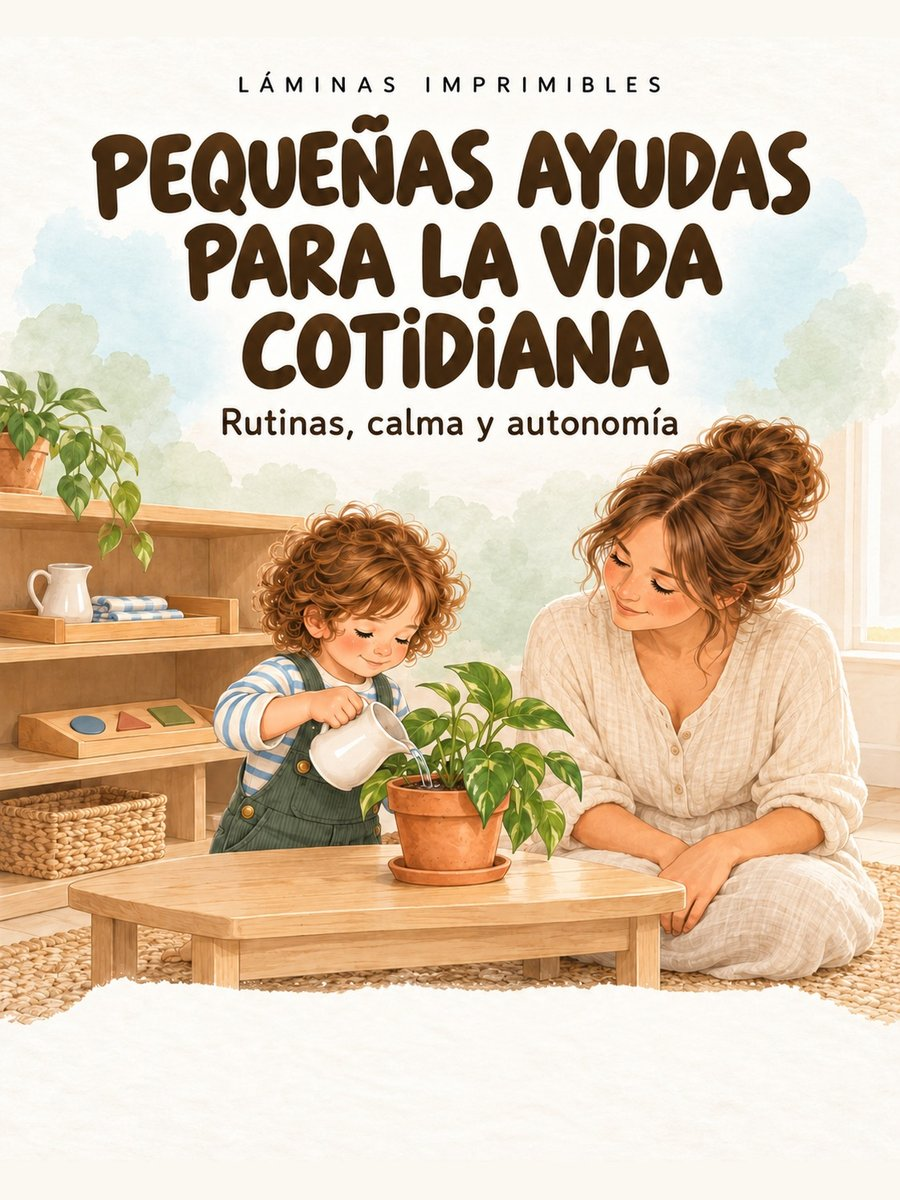
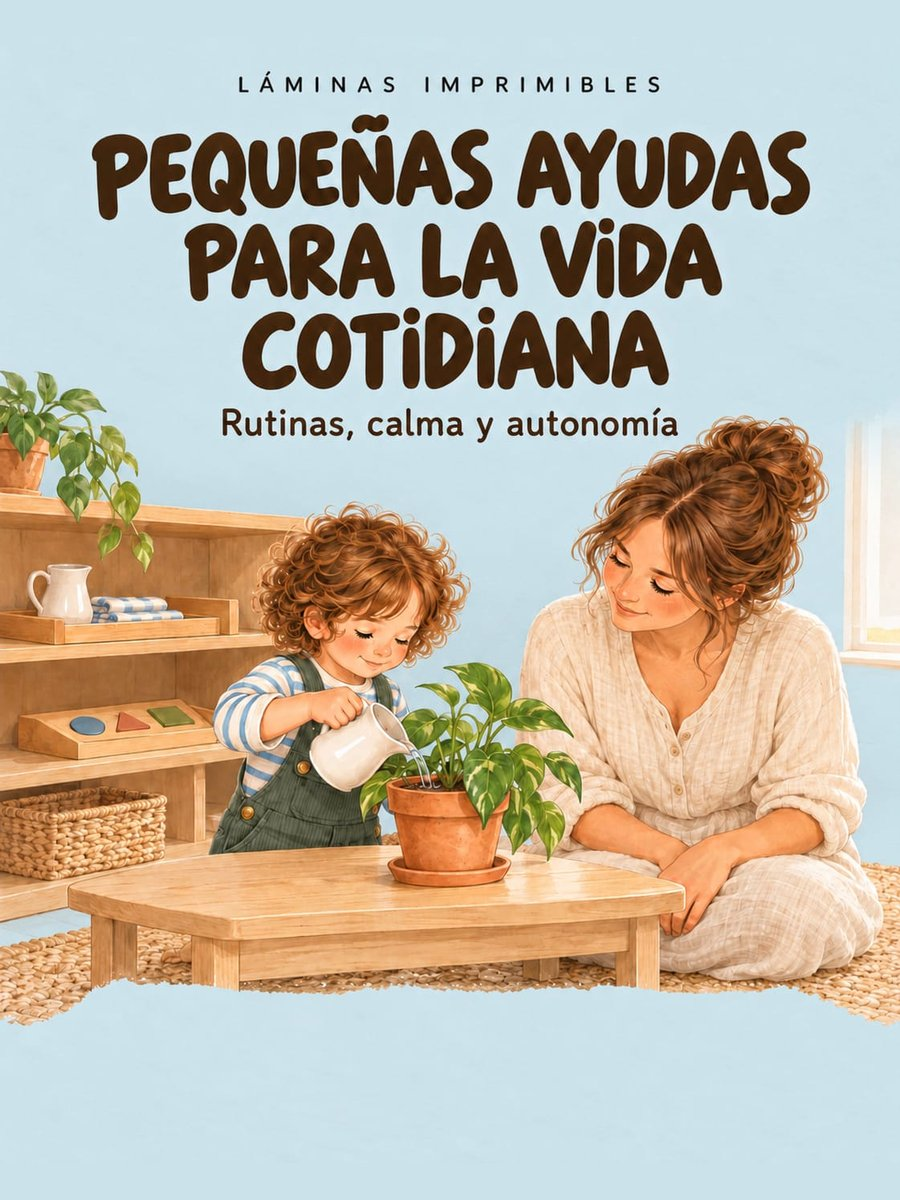
Add files via upload

diff --git a/assets/estilos.css b/assets/estilos.css
@@ -487,7 +487,7 @@ p:last-child{margin-bottom:0}
 .rec__tapa::after{content:"";position:absolute;inset:8px;border:1.3px dashed rgba(255,255,255,.7);border-radius:10px}
 .rec__tapa span{position:relative;z-index:1;font-family:var(--mano);font-size:1.05rem;color:rgba(111,112,109,.8);line-height:1.25}
 .rec__cerrojo{
-  position:absolute;z-index:2;top:10px;right:10px;
+  position:absolute;z-index:2;bottom:10px;right:10px;
   width:32px;height:32px;border-radius:50%;
   display:grid;place-items:center;
   background:rgba(251,248,243,.94);

diff --git a/index.html b/index.html
@@ -243,7 +243,7 @@
           <img src="/img/tapa-laminas.jpg" alt="Tapa de las láminas imprimibles Pequeñas ayudas para la vida cotidiana" width="900" height="1200" loading="lazy">
         </div>
         <span class="prod__cat">LÁMINAS</span>
-        <span class="prod__nom">Láminas Montessori para acompañar las rutinas, la calma y la autonomía.</span></span>
+        <span class="prod__nom">Rutinas, calma y autonomía</span></span>
       </div>
     </div>
 
